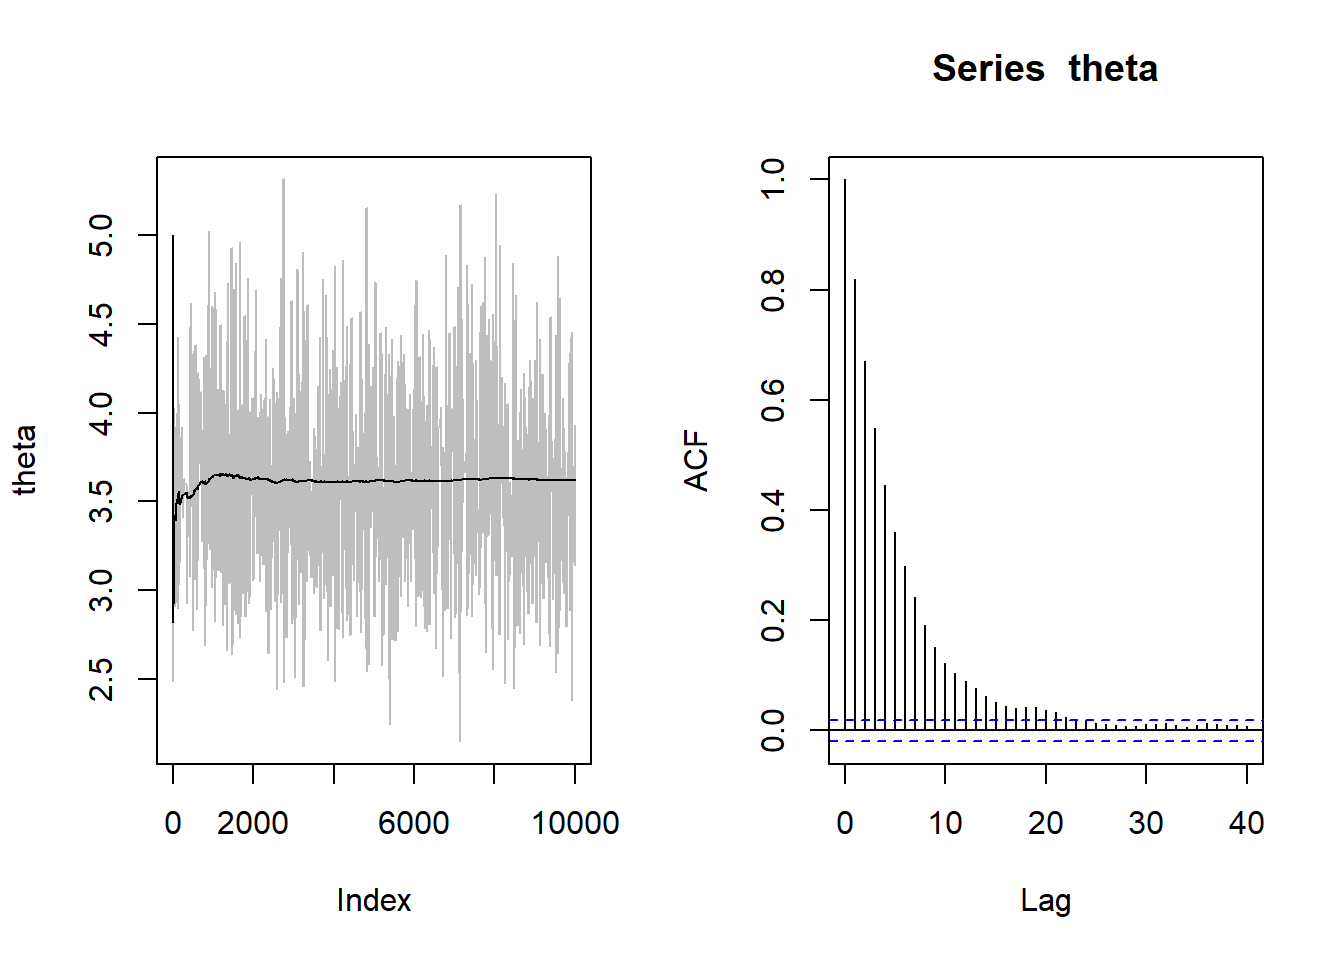
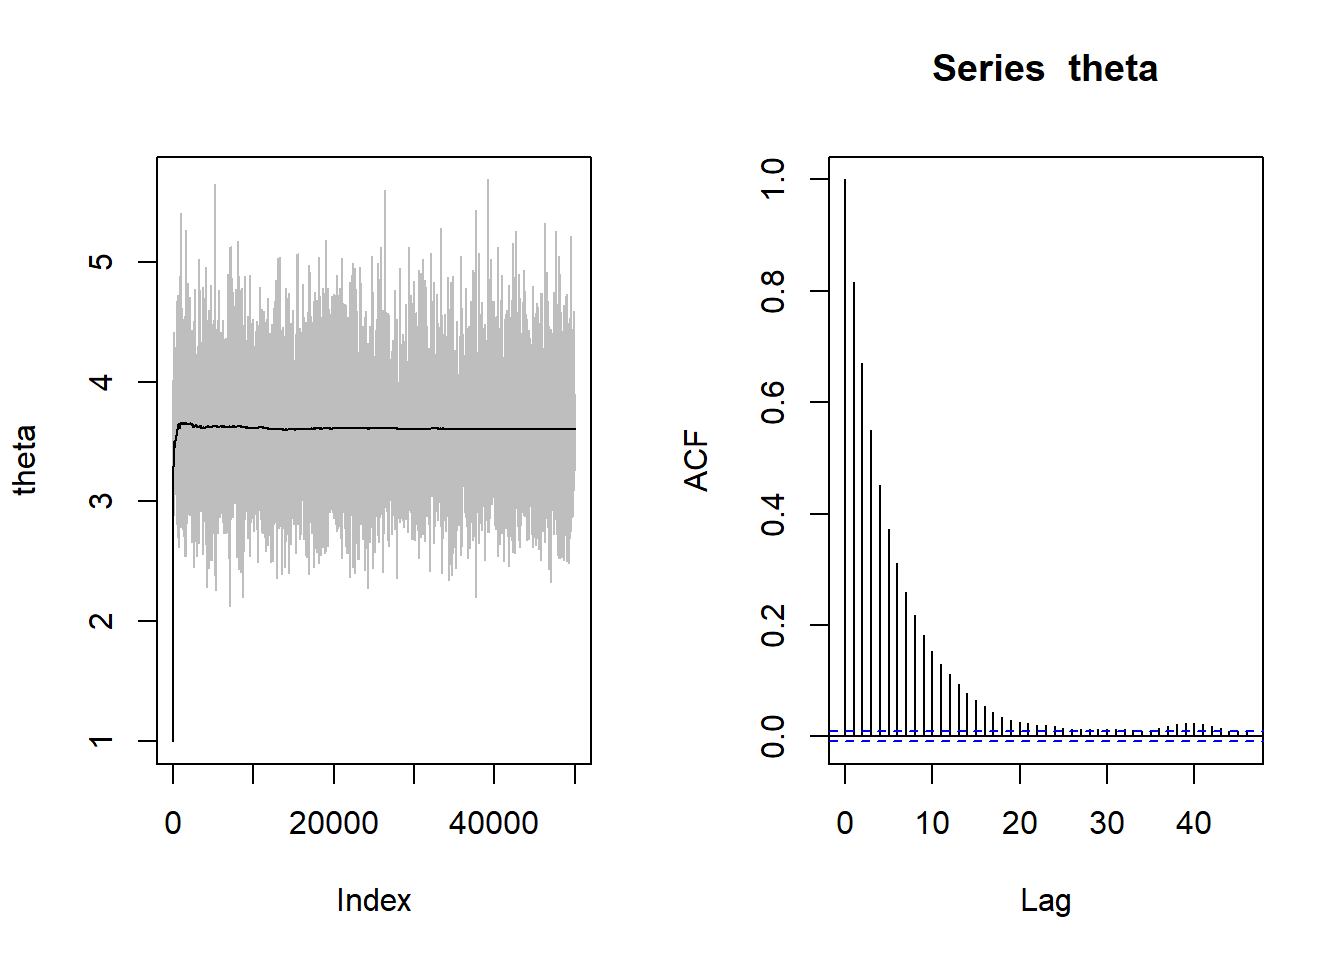
Uodate

diff --git a/docs/Script4.html b/docs/Script4.html
@@ -179,7 +179,7 @@ window.Quarto = {
 </header>
 
 
-<p>Let’s suppose that the posterior is a Gamma(alpha.post, beta.post) and let’s suppose to know just the kernel.</p>
+<p>Let’s suppose that the posterior is a Gamma(alpha.post, beta.post) and that we cannot compute the normalizing constant (i.e., we know only the kernel).</p>
 <p>We choose a an Exponential distribution with mean equal to the previous value of the chain as the <strong>proposal distribution</strong>.</p>
 <div class="cell">
 <div class="sourceCode cell-code" id="cb1"><pre class="sourceCode r code-with-copy"><code class="sourceCode r"><span id="cb1-1"><a href="#cb1-1" aria-hidden="true" tabindex="-1"></a><span class="fu">rm</span>(<span class="at">list =</span> <span class="fu">ls</span>())</span>
@@ -197,16 +197,22 @@ window.Quarto = {
 <span id="cb2-3"><a href="#cb2-3" aria-hidden="true" tabindex="-1"></a>n <span class="ot">&lt;-</span> <span class="dv">15</span></span>
 <span id="cb2-4"><a href="#cb2-4" aria-hidden="true" tabindex="-1"></a>sum_yi <span class="ot">&lt;-</span> <span class="fu">sum</span>(<span class="fu">rpois</span>(n, <span class="dv">3</span>))</span></code><button title="Copy to Clipboard" class="code-copy-button"><i class="bi"></i></button></pre></div>
 </div>
-<p>Initialization:</p>
+<p>We initialize the MCMC with an initial value:</p>
 <div class="cell">
 <div class="sourceCode cell-code" id="cb3"><pre class="sourceCode r code-with-copy"><code class="sourceCode r"><span id="cb3-1"><a href="#cb3-1" aria-hidden="true" tabindex="-1"></a>k <span class="ot">&lt;-</span> <span class="dv">0</span></span>
 <span id="cb3-2"><a href="#cb3-2" aria-hidden="true" tabindex="-1"></a>theta <span class="ot">&lt;-</span> <span class="fu">numeric</span>(B)</span>
 <span id="cb3-3"><a href="#cb3-3" aria-hidden="true" tabindex="-1"></a>theta.mean <span class="ot">&lt;-</span> <span class="fu">numeric</span>(B)</span>
 <span id="cb3-4"><a href="#cb3-4" aria-hidden="true" tabindex="-1"></a></span>
-<span id="cb3-5"><a href="#cb3-5" aria-hidden="true" tabindex="-1"></a>theta[<span class="dv">1</span>] <span class="ot">&lt;-</span> <span class="dv">5</span></span>
+<span id="cb3-5"><a href="#cb3-5" aria-hidden="true" tabindex="-1"></a>theta[<span class="dv">1</span>] <span class="ot">&lt;-</span> <span class="dv">1</span></span>
 <span id="cb3-6"><a href="#cb3-6" aria-hidden="true" tabindex="-1"></a>theta.mean[<span class="dv">1</span>] <span class="ot">&lt;-</span> theta[<span class="dv">1</span>]</span></code><button title="Copy to Clipboard" class="code-copy-button"><i class="bi"></i></button></pre></div>
 </div>
-<p>Implementing the Metropolis Hasting algorithm.</p>
+<p>Now, let’s implement the <strong>Metropolis Hasting algorithm</strong>. The main step here is to compute the probability <span class="math inline">\(\alpha\left(\theta^{(b)}, \theta^*\right)\)</span>, which has the following expression:</p>
+<p><span class="math display">\[\begin{equation*}
+    \alpha\left(\theta^{(b)}, \theta^*\right) = = \begin{cases}
+  \min\left(1, \frac{\pi(\theta^*|\textbf{y})q(\theta^{(b)}|\theta^*)}{\pi(\theta^{(b)}|\textbf{y}q(\theta^{*}|\theta^{(b)})} \right)  &amp; \text{ if } {\pi(\theta^{(b)}|\textbf{y}q(\theta^{*}|\theta^{(b)})} \neq 0 \\
+  1 &amp; \text{ otherwise}
+          \end{cases}.
+\end{equation*}\]</span></p>
 <div class="cell">
 <div class="sourceCode cell-code" id="cb4"><pre class="sourceCode r code-with-copy"><code class="sourceCode r"><span id="cb4-1"><a href="#cb4-1" aria-hidden="true" tabindex="-1"></a><span class="cf">for</span>(bb <span class="cf">in</span> <span class="dv">2</span><span class="sc">:</span>B){</span>
 <span id="cb4-2"><a href="#cb4-2" aria-hidden="true" tabindex="-1"></a>  theta_star <span class="ot">&lt;-</span> <span class="fu">rexp</span>(<span class="dv">1</span>, <span class="at">rate=</span><span class="dv">1</span><span class="sc">/</span>theta[bb<span class="dv">-1</span>]) </span>
@@ -233,7 +239,7 @@ window.Quarto = {
 <div class="sourceCode cell-code" id="cb5"><pre class="sourceCode r code-with-copy"><code class="sourceCode r"><span id="cb5-1"><a href="#cb5-1" aria-hidden="true" tabindex="-1"></a><span class="co"># Acceptance rate:</span></span>
 <span id="cb5-2"><a href="#cb5-2" aria-hidden="true" tabindex="-1"></a>k<span class="sc">/</span>B</span></code><button title="Copy to Clipboard" class="code-copy-button"><i class="bi"></i></button></pre></div>
 <div class="cell-output cell-output-stdout">
-<pre><code>[1] 0.132</code></pre>
+<pre><code>[1] 0.131</code></pre>
 </div>
 </div>
 <p>Traceplots:</p>
@@ -251,12 +257,12 @@ window.Quarto = {
 </div>
 <div class="sourceCode cell-code" id="cb8"><pre class="sourceCode r code-with-copy"><code class="sourceCode r"><span id="cb8-1"><a href="#cb8-1" aria-hidden="true" tabindex="-1"></a><span class="fu">par</span>(<span class="at">mfrow=</span><span class="fu">c</span>(<span class="dv">1</span>,<span class="dv">1</span>))</span></code><button title="Copy to Clipboard" class="code-copy-button"><i class="bi"></i></button></pre></div>
 </div>
-<p>Removing the warm-up period:</p>
+<p>We remove the warm-up period…</p>
 <div class="cell">
 <div class="sourceCode cell-code" id="cb9"><pre class="sourceCode r code-with-copy"><code class="sourceCode r"><span id="cb9-1"><a href="#cb9-1" aria-hidden="true" tabindex="-1"></a>m <span class="ot">&lt;-</span> warmup<span class="sc">*</span>B</span>
 <span id="cb9-2"><a href="#cb9-2" aria-hidden="true" tabindex="-1"></a>theta.new <span class="ot">&lt;-</span> theta[m<span class="sc">:</span>B]</span></code><button title="Copy to Clipboard" class="code-copy-button"><i class="bi"></i></button></pre></div>
 </div>
-<p>Comparing the real and simulated posterior:</p>
+<p>… and compare the real and simulated posterior:</p>
 <div class="cell">
 <div class="sourceCode cell-code" id="cb10"><pre class="sourceCode r code-with-copy"><code class="sourceCode r"><span id="cb10-1"><a href="#cb10-1" aria-hidden="true" tabindex="-1"></a><span class="fu">hist</span>(theta.new,<span class="at">prob=</span>T,<span class="at">xlab=</span><span class="fu">expression</span>(theta))</span>
 <span id="cb10-2"><a href="#cb10-2" aria-hidden="true" tabindex="-1"></a><span class="fu">curve</span>(<span class="fu">dgamma</span>(x, a<span class="sc">+</span>sum_yi, <span class="at">rate=</span>b<span class="sc">+</span>n),<span class="at">add=</span>T,<span class="at">lwd=</span><span class="dv">2</span>)</span></code><button title="Copy to Clipboard" class="code-copy-button"><i class="bi"></i></button></pre></div>
@@ -269,16 +275,16 @@ window.Quarto = {
 </div>
 <div class="sourceCode cell-code" id="cb11"><pre class="sourceCode r code-with-copy"><code class="sourceCode r"><span id="cb11-1"><a href="#cb11-1" aria-hidden="true" tabindex="-1"></a><span class="fu">par</span>(<span class="at">mfrow=</span><span class="fu">c</span>(<span class="dv">1</span>,<span class="dv">1</span>))</span></code><button title="Copy to Clipboard" class="code-copy-button"><i class="bi"></i></button></pre></div>
 </div>
-<p>The acceptance rate is too small: to obtain a reliable sample from the stationary distribution we have to increase the length of the chain and include a thin period:</p>
+<p>The comparison suggests that the simulated posterior is not a good approximation of the true theoretical one. As an additional red-flag, we note that the acceptance rate is quite small. Thus, to obtain a reliable sample from the stationary distribution, we have to increase the length of the chain and include a thin period:</p>
 <div class="cell">
-<div class="sourceCode cell-code" id="cb12"><pre class="sourceCode r code-with-copy"><code class="sourceCode r"><span id="cb12-1"><a href="#cb12-1" aria-hidden="true" tabindex="-1"></a>B <span class="ot">&lt;-</span> <span class="dv">10000</span></span>
+<div class="sourceCode cell-code" id="cb12"><pre class="sourceCode r code-with-copy"><code class="sourceCode r"><span id="cb12-1"><a href="#cb12-1" aria-hidden="true" tabindex="-1"></a>B <span class="ot">&lt;-</span> <span class="dv">50000</span></span>
 <span id="cb12-2"><a href="#cb12-2" aria-hidden="true" tabindex="-1"></a>warmup <span class="ot">&lt;-</span> <span class="fl">0.6</span></span>
 <span id="cb12-3"><a href="#cb12-3" aria-hidden="true" tabindex="-1"></a></span>
 <span id="cb12-4"><a href="#cb12-4" aria-hidden="true" tabindex="-1"></a>k <span class="ot">&lt;-</span> <span class="dv">0</span></span>
 <span id="cb12-5"><a href="#cb12-5" aria-hidden="true" tabindex="-1"></a>theta <span class="ot">&lt;-</span> <span class="fu">numeric</span>(B)</span>
 <span id="cb12-6"><a href="#cb12-6" aria-hidden="true" tabindex="-1"></a>theta.mean <span class="ot">&lt;-</span> <span class="fu">numeric</span>(B)</span>
 <span id="cb12-7"><a href="#cb12-7" aria-hidden="true" tabindex="-1"></a></span>
-<span id="cb12-8"><a href="#cb12-8" aria-hidden="true" tabindex="-1"></a>theta[<span class="dv">1</span>] <span class="ot">&lt;-</span> <span class="dv">5</span></span>
+<span id="cb12-8"><a href="#cb12-8" aria-hidden="true" tabindex="-1"></a>theta[<span class="dv">1</span>] <span class="ot">&lt;-</span> <span class="dv">1</span></span>
 <span id="cb12-9"><a href="#cb12-9" aria-hidden="true" tabindex="-1"></a>theta.mean[<span class="dv">1</span>] <span class="ot">&lt;-</span> theta[<span class="dv">1</span>]</span>
 <span id="cb12-10"><a href="#cb12-10" aria-hidden="true" tabindex="-1"></a></span>
 <span id="cb12-11"><a href="#cb12-11" aria-hidden="true" tabindex="-1"></a><span class="cf">for</span>(bb <span class="cf">in</span> <span class="dv">2</span><span class="sc">:</span>B){</span>
@@ -346,6 +352,7 @@ window.Quarto = {
 </section>
 <section id="metropolis-hasting-for-a-logistic-regression-model" class="level1">
 <h1>Metropolis Hasting for a Logistic Regression model</h1>
+<p>Let’s consider <span class="math inline">\(Y_i \sim Bernoulli (\theta_i)\)</span>, where the probability of success depends on a quantitative covariate <span class="math inline">\(X\)</span> by means of the logit link function: <span class="math display">\[logit(\theta_i) = \log\left(\frac{\theta_i}1-\theta_i}\right) = \alpha + \betax_i.\]</span></p>
 <div class="cell">
 <div class="sourceCode cell-code" id="cb19"><pre class="sourceCode r code-with-copy"><code class="sourceCode r"><span id="cb19-1"><a href="#cb19-1" aria-hidden="true" tabindex="-1"></a><span class="fu">rm</span>(<span class="at">list=</span><span class="fu">ls</span>())</span>
 <span id="cb19-2"><a href="#cb19-2" aria-hidden="true" tabindex="-1"></a></span>

diff --git a/docs/Script3.html b/docs/Script3.html
@@ -414,7 +414,8 @@ window.Quarto = {
 </div>
 </div>
 <div class="cell">
-<div class="sourceCode cell-code" id="cb32"><pre class="sourceCode r code-with-copy"><code class="sourceCode r"><span id="cb32-1"><a href="#cb32-1" aria-hidden="true" tabindex="-1"></a><span class="fu">plot</span>(mu.new, sigma2.new, <span class="at">pch =</span> <span class="dv">20</span>)</span></code><button title="Copy to Clipboard" class="code-copy-button"><i class="bi"></i></button></pre></div>
+<div class="sourceCode cell-code" id="cb32"><pre class="sourceCode r code-with-copy"><code class="sourceCode r"><span id="cb32-1"><a href="#cb32-1" aria-hidden="true" tabindex="-1"></a><span class="fu">plot</span>(mu.new, sigma2.new, <span class="at">pch =</span> <span class="dv">20</span>)</span>
+<span id="cb32-2"><a href="#cb32-2" aria-hidden="true" tabindex="-1"></a><span class="fu">points</span>(mu.true, sigma2.true, <span class="at">pch =</span> <span class="dv">19</span>, <span class="at">col =</span> <span class="st">"#D55E00"</span>)</span></code><button title="Copy to Clipboard" class="code-copy-button"><i class="bi"></i></button></pre></div>
 <div class="cell-output-display">
 <div>
 <figure class="figure">
